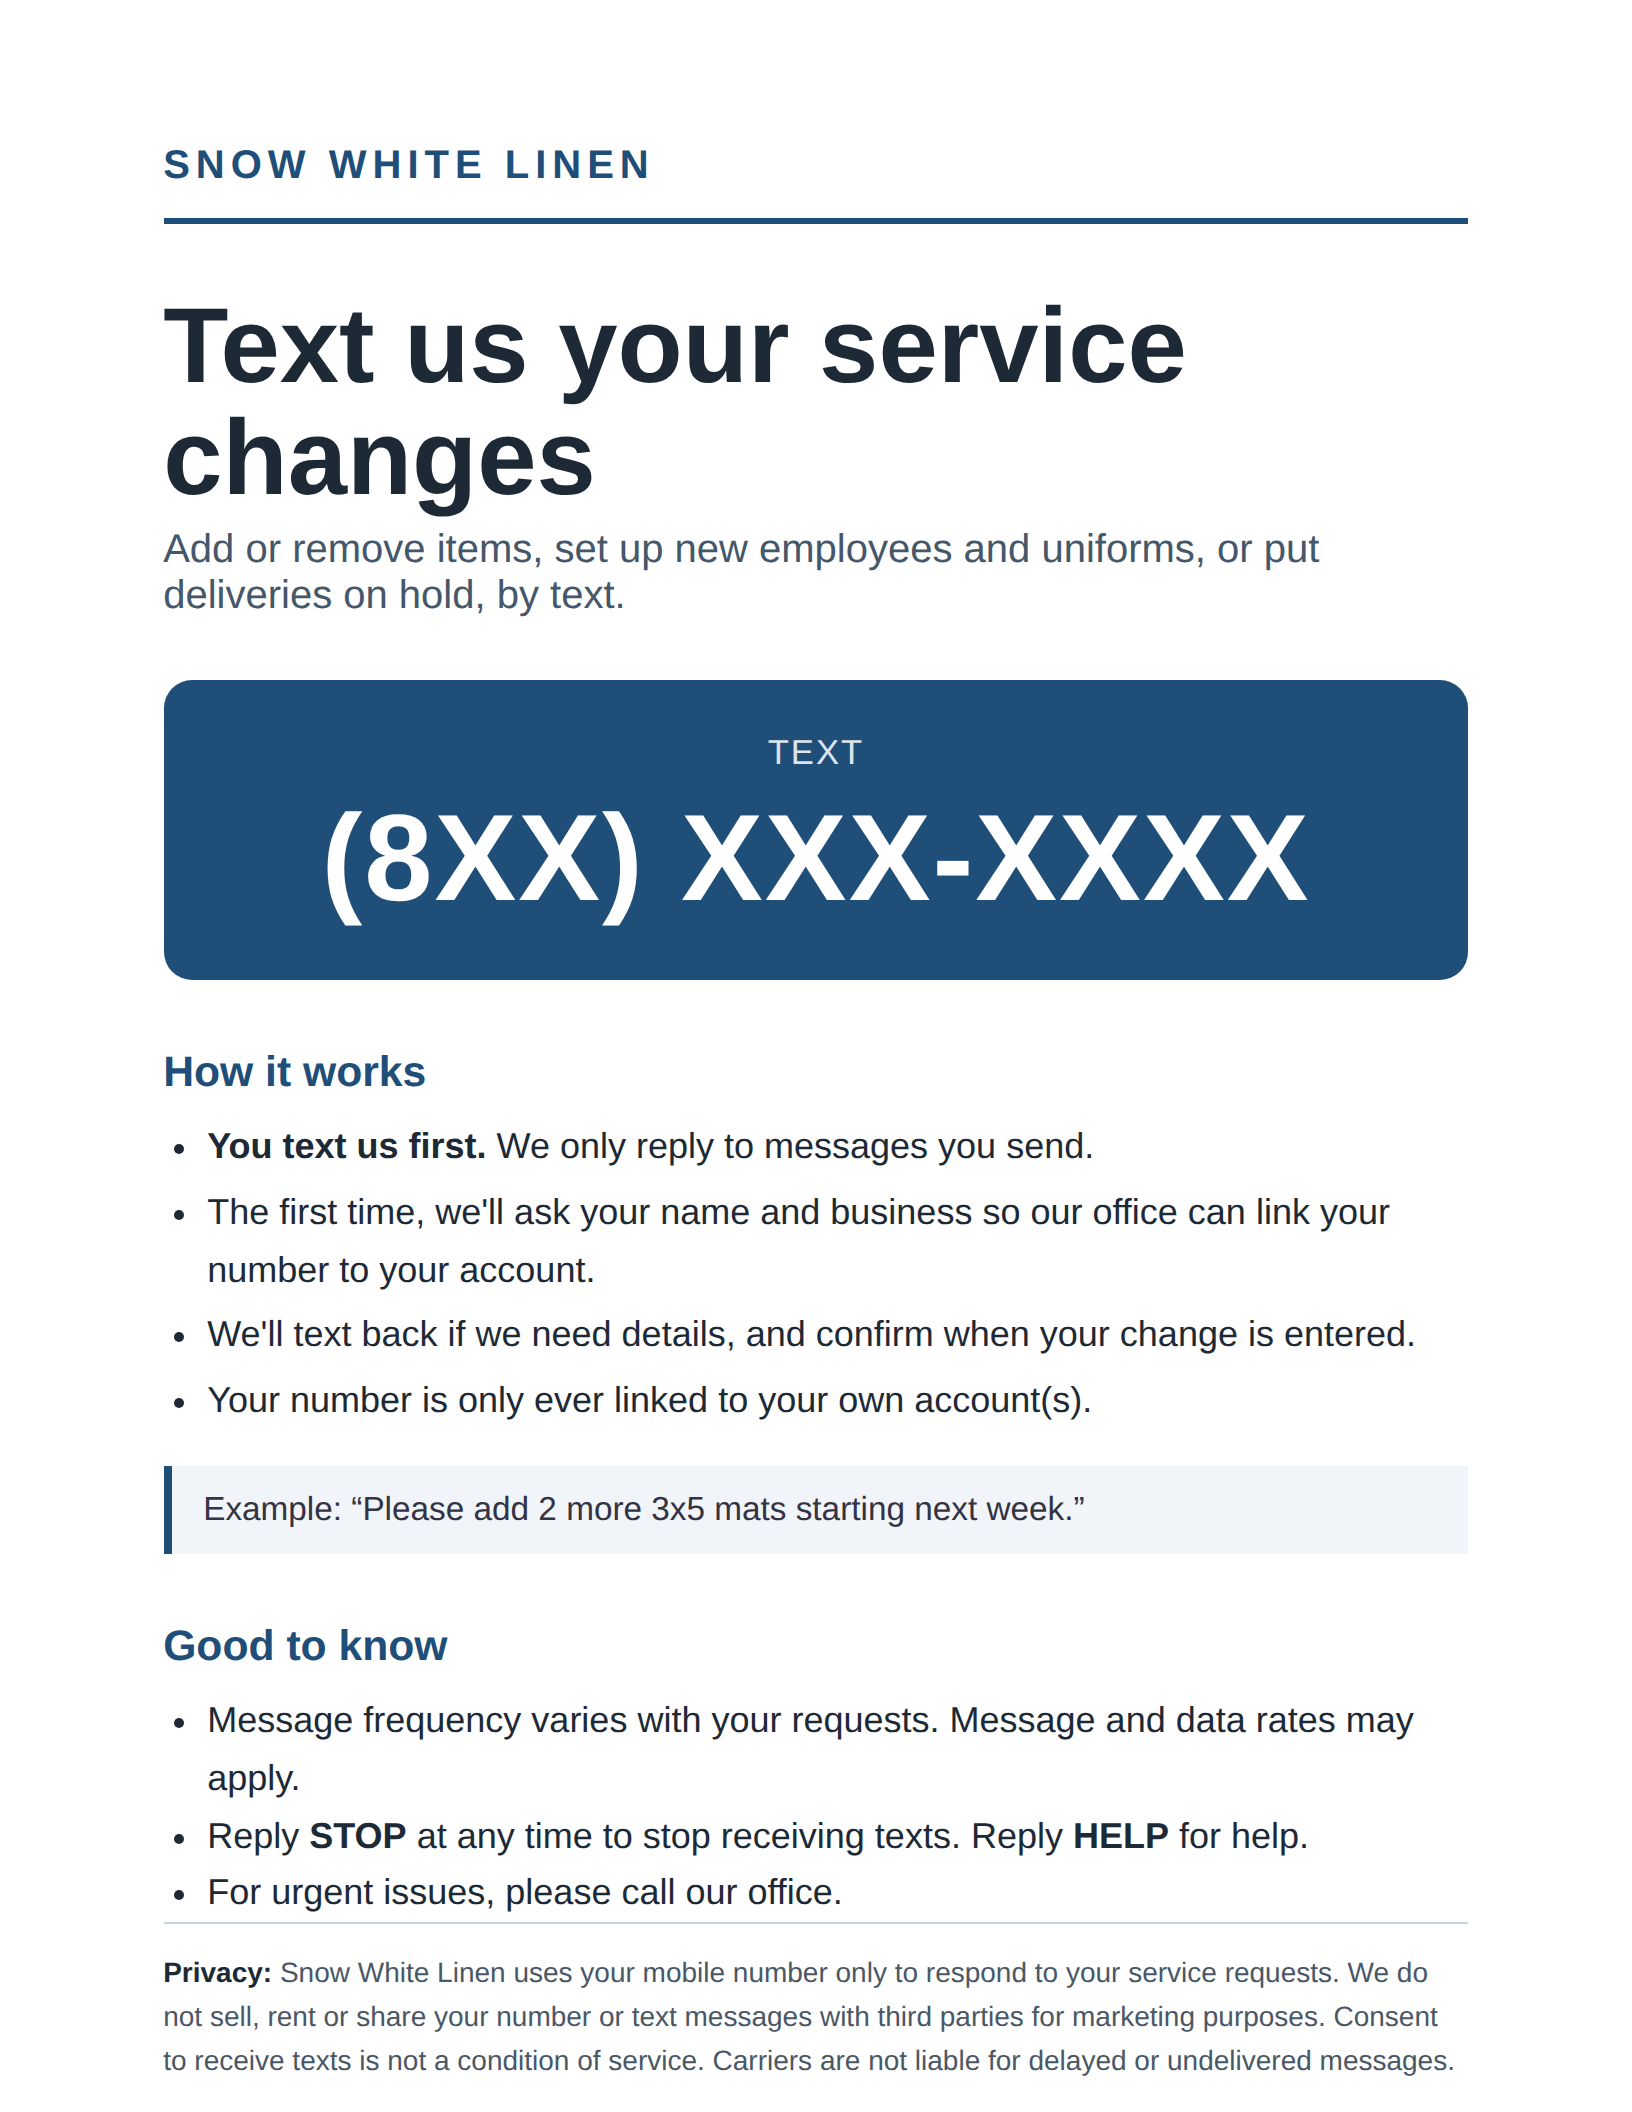
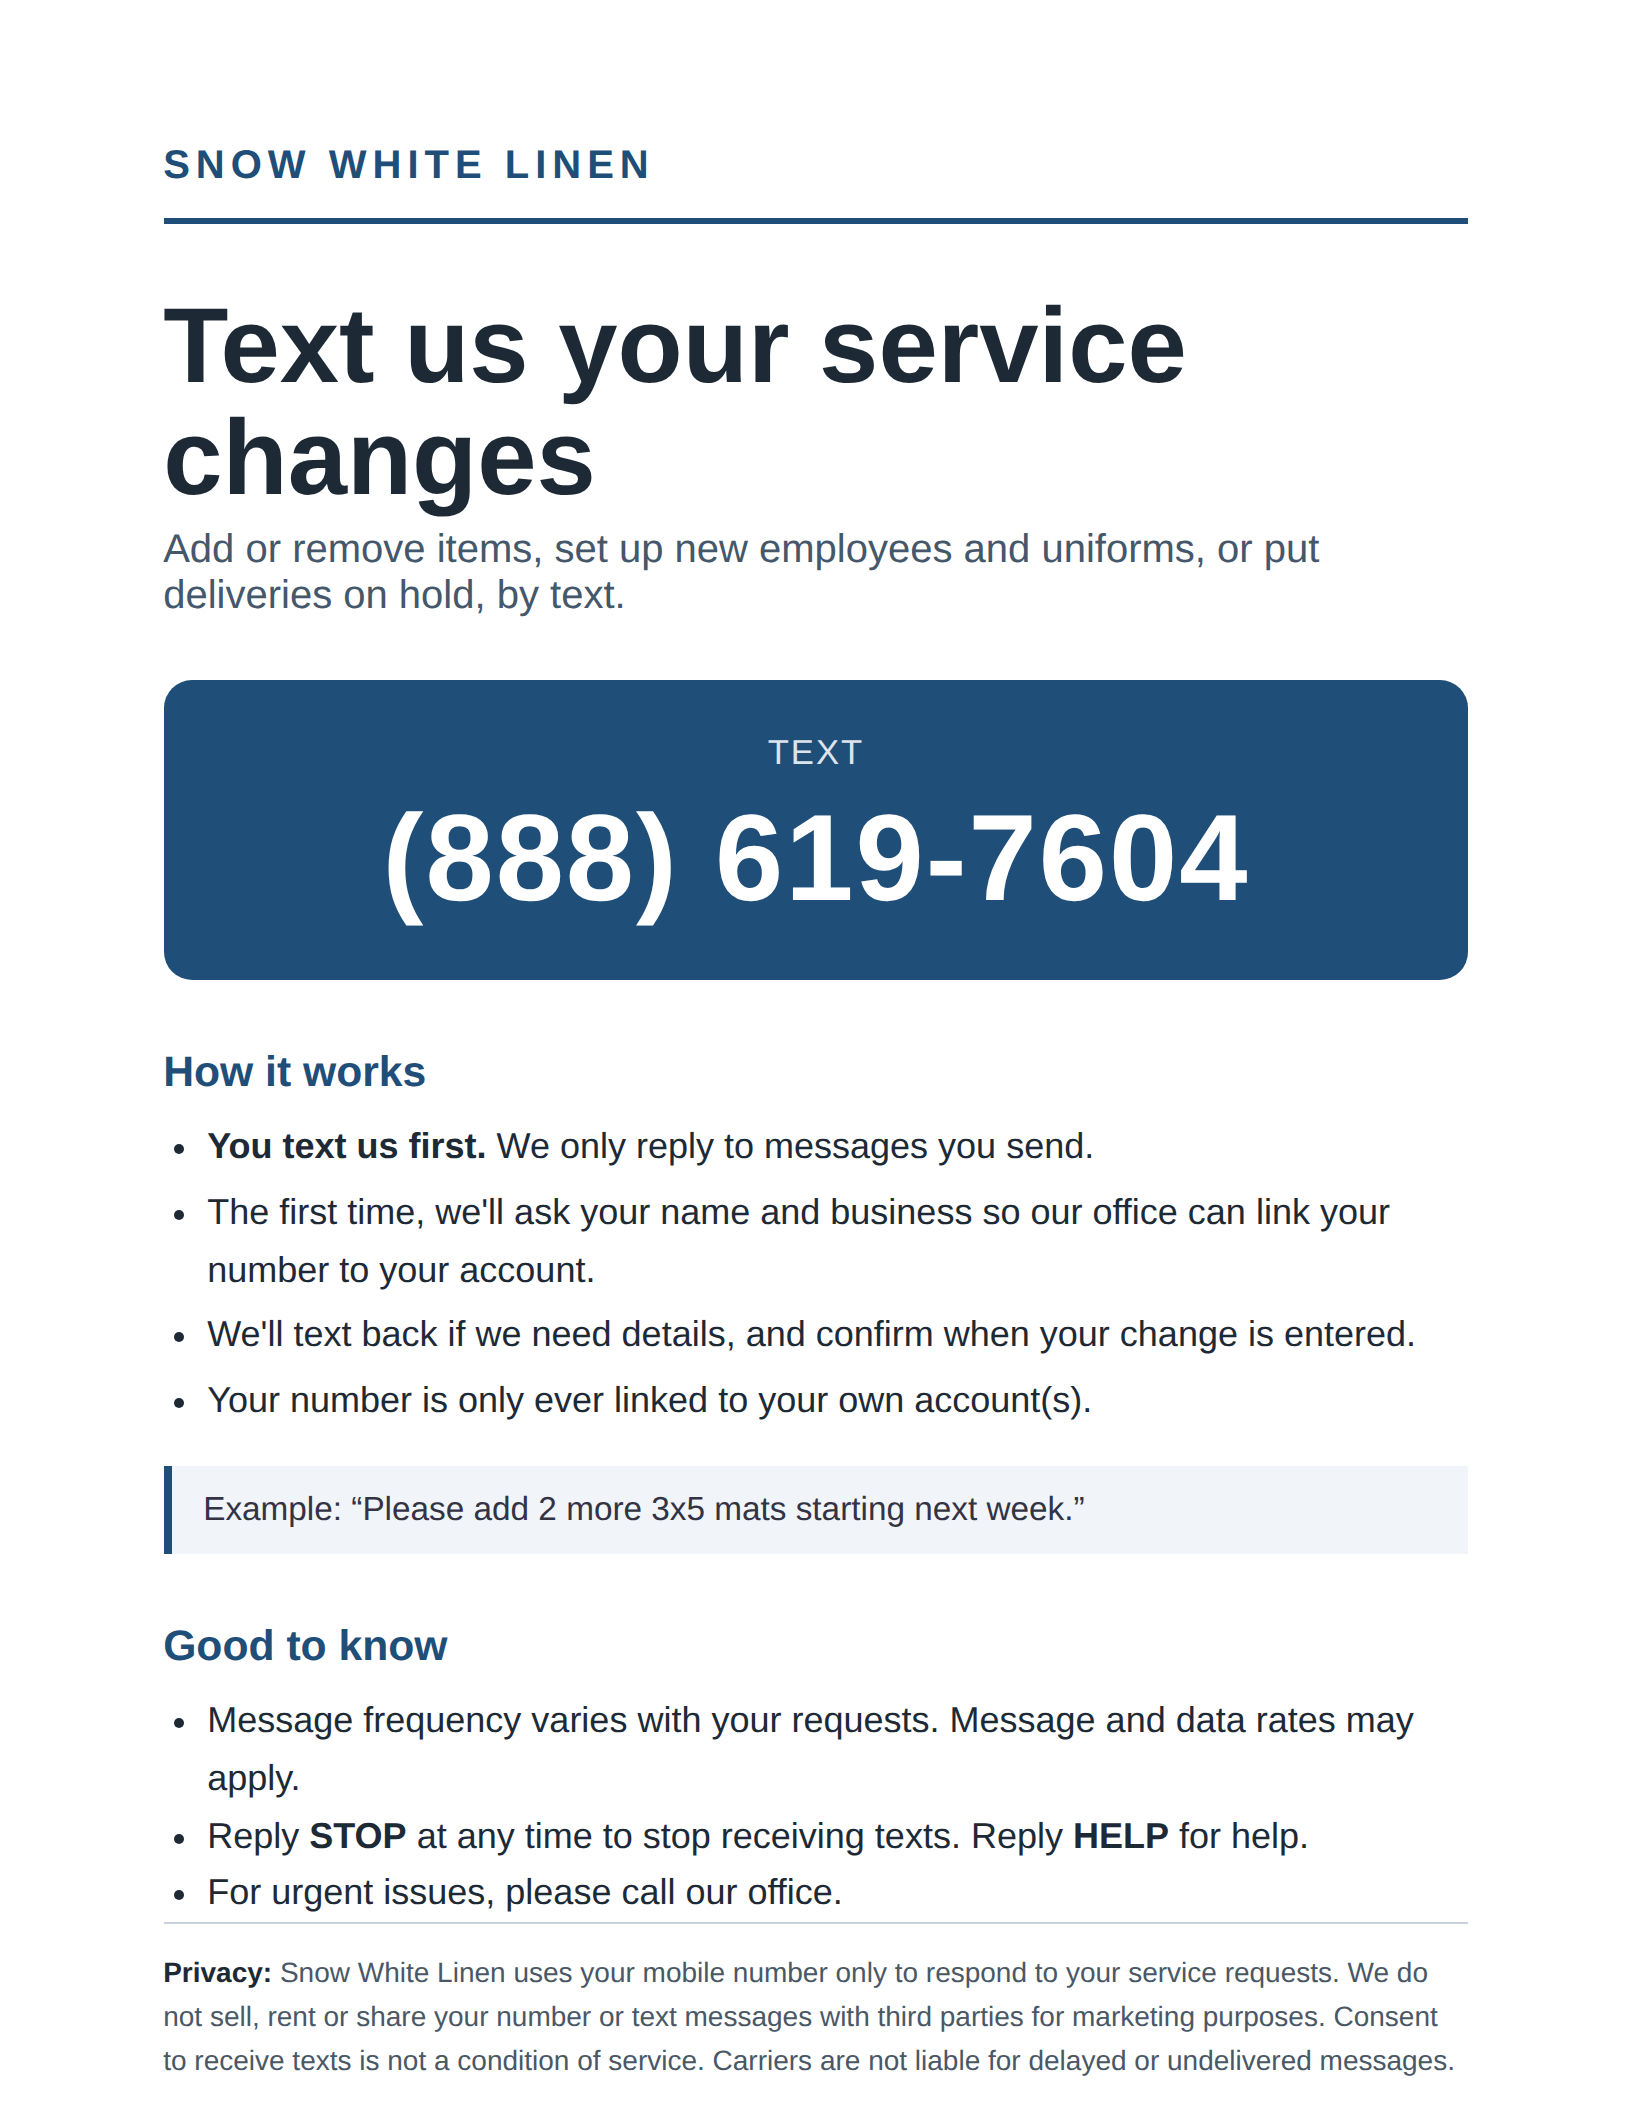
Flyer: fill in the toll-free texting number
Claude-Session: https://claude.ai/code/session_01Ls4eKQ1Nq7g22xRkeU3WLi

Changed region(s): [[0.1875, 0.375, 0.8125, 0.4375]]

diff --git a/flyer/flyer.html b/flyer/flyer.html
@@ -20,7 +20,7 @@ ul { margin:0; padding-left: 22px; font-size: 13.5pt; line-height:1.6; }
 <div class="top"><div class="brand">Snow White Linen</div></div>
 <h1>Text us your service changes</h1>
 <p class="sub">Add or remove items, set up new employees and uniforms, or put deliveries on hold, by text.</p>
-<div class="number"><div class="label">Text</div><div class="digits">(8XX) XXX-XXXX</div></div>
+<div class="number"><div class="label">Text</div><div class="digits">(888) 619-7604</div></div>
 <h2>How it works</h2>
 <ul class="steps">
 <li><b>You text us first.</b> We only reply to messages you send.</li>
